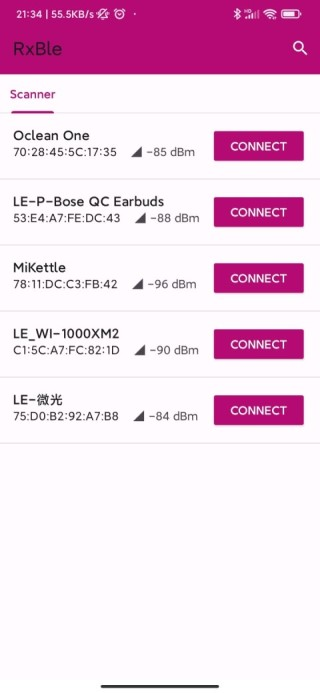
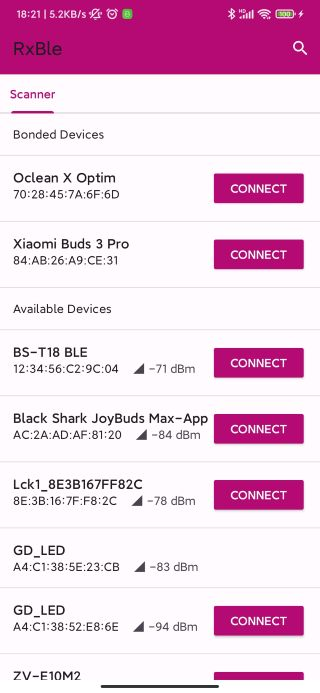
Add bounded device feature;

diff --git a/app/src/main/java/tt/rxble/adapter/ScanAdapter.kt b/app/src/main/java/tt/rxble/adapter/ScanAdapter.kt
@@ -16,19 +16,28 @@
 
 package tt.rxble.adapter
 
+import android.annotation.SuppressLint
+import android.bluetooth.BluetoothDevice
 import android.bluetooth.le.ScanResult
 import android.os.Build
+import android.view.LayoutInflater
 import android.view.View
+import android.view.ViewGroup
 import androidx.viewbinding.ViewBinding
+import tt.rxble.databinding.ItemListTitleBinding
 import tt.rxble.databinding.ItemScanBinding
 import tt.rxble.displayName
+import tt.rxble.R
 import tt.base.component.TTAdapter
 import tt.base.component.TTHolder
 import tt.base.component.TTOnClickListener
+import tt.base.utils.gone
+import tt.base.utils.visible
 
 class ScanAdapter(
-    private var clickListener: TTOnClickListener<ItemScanBinding, ScanResult>
+    private var clickListener: TTOnClickListener<ItemScanBinding, BluetoothDevice>
 ) : TTAdapter<ItemScanBinding, ScanResult>() {
+    var bondedDevices = mutableListOf<BluetoothDevice>()
 
     var keyword: String? = null
         set(value) {
@@ -45,27 +54,68 @@ class ScanAdapter(
         }
     var list: MutableList<ScanResult> = items
 
+    override fun getItemViewType(position: Int): Int {
+        if (bondedDevices.isNotEmpty() && (position == 0 || position == (bondedDevices.size + 1))) {
+            return TTHolder.viewType(ItemListTitleBinding::class.java)
+        }
+        return super.getItemViewType(position)
+    }
+
+    override fun onCreateViewHolder(parent: ViewGroup, viewType: Int): TTHolder<ViewBinding> {
+        if (viewType == TTHolder.viewType(ItemListTitleBinding::class.java)) {
+            return TTHolder(ItemListTitleBinding.inflate(LayoutInflater.from(ctx), parent, false))
+        }
+        return super.onCreateViewHolder(parent, viewType)
+    }
+
+    @SuppressLint("MissingPermission")
     override fun onBindViewHolder(holder: TTHolder<ViewBinding>, position: Int) {
+        val resources = holder.itemView.resources
         if (holder.vb is ItemScanBinding) {
             val vb = holder.vb as ItemScanBinding
-            val item = list[position]
-            item.device?.let {
-                vb.tvAddress.text = it.address
+            if (bondedDevices.isNotEmpty() && position < (bondedDevices.size + 2)) {
+                val item = bondedDevices[position - 1]
+                vb.tvAddress.text = item.address
+                var name = item.name
+                if (name.isNullOrBlank() && Build.VERSION.SDK_INT >= Build.VERSION_CODES.R) {
+                    name = item.alias
+                }
+                if (name.isNullOrBlank()) name = resources.getString(R.string.n_a)
+                vb.tvName.text = name
+                gone(vb.tvRssi)
+                setClickListener(
+                    clickListener, holder as TTHolder<ItemScanBinding>, item,
+                    holder.itemView, vb.connect
+                )
+            } else {
+                var pos = getRealPosition(position, true)
+                val item = list[pos]
+                item.device?.let {
+                    vb.tvAddress.text = it.address
+                }
+                vb.tvName.text = item.displayName ?: resources.getString(R.string.n_a)
+                vb.tvRssi.text = resources.getString(R.string.dbm, item.rssi)
+                visible(vb.tvRssi)
+                if (Build.VERSION.SDK_INT >= Build.VERSION_CODES.O) {
+                    vb.connect.visibility = if (item.isConnectable) View.VISIBLE else View.GONE
+                }
+                setClickListener(
+                    clickListener, holder as TTHolder<ItemScanBinding>, item.device,
+                    holder.itemView, vb.connect
+                )
             }
-            vb.tvName.text = item.displayName ?: "N/A"
-            vb.tvRssi.text = "${item.rssi} dBm"
-            if (Build.VERSION.SDK_INT >= Build.VERSION_CODES.O) {
-                vb.connect.visibility = if (item.isConnectable) View.VISIBLE else View.GONE
+        } else if (holder.vb is ItemListTitleBinding) {
+            val vb = holder.vb as ItemListTitleBinding
+            if (position == 0) {
+                vb.tvTitle.text = resources.getString(R.string.bonded_devices)
+            } else {
+                vb.tvTitle.text = resources.getString(R.string.available_devices)
             }
-            setClickListener(
-                clickListener, holder as TTHolder<ItemScanBinding>, item,
-                holder.itemView, vb.connect
-            )
         }
     }
 
     override fun put(t: ScanResult): Boolean {
-        val index = items.deviceIndexOf(t)
+        var index = items.deviceIndexOf(t)
         if (index >= 0) items[index] = t else items.add(t)
         if (keyword?.isNotEmpty() == true) {
             keyword?.let { key ->
@@ -74,7 +124,7 @@ class ScanAdapter(
                     val position = list.deviceIndexOf(t)
                     if (position >= 0) {
                         list[position] = t
-                        notifyItemChanged(position)
+                        notifyItemChanged(getRealPosition(position))
                     } else {
                         list.add(t)
                         notifyItemInserted(itemCount - 1)
@@ -82,13 +132,20 @@ class ScanAdapter(
                 }
             }
         } else {
-            if (index >= 0) notifyItemChanged(index) else notifyItemInserted(list.size - 1)
+            if (index >= 0) {
+                notifyItemChanged(getRealPosition(index))
+            } else notifyItemInserted(itemCount - 1)
         }
         return true
     }
 
-    override fun getItemCount(): Int {
-        return list.size
+    override fun getItemCount() = getRealPosition(list.size)
+
+    private fun getRealPosition(position: Int, reverse: Boolean = false): Int {
+        if (bondedDevices.isNotEmpty()) {
+            return if (reverse) position - bondedDevices.size - 2 else position + bondedDevices.size + 2
+        }
+        return position
     }
 
     private fun List<ScanResult>.deviceIndexOf(element: ScanResult): Int {
@@ -97,9 +154,10 @@ class ScanAdapter(
     }
 
     override fun clear() {
-        val itemCount = list.size
+        val count = itemCount
+        bondedDevices.clear()
         list.clear()
-        notifyItemRangeRemoved(0, itemCount)
         items.clear()
+        notifyItemRangeRemoved(0, count)
     }
 }

diff --git a/app/src/main/java/tt/rxble/ui/main/ScanFragment.kt b/app/src/main/java/tt/rxble/ui/main/ScanFragment.kt
@@ -52,7 +52,7 @@ import tt.base.utils.permissionGranted
 import java.util.concurrent.TimeUnit
 
 class ScanFragment : TTFragment<RefreshRecyclerBinding>(), SwipeRefreshLayout.OnRefreshListener,
-    TTOnClickListener<ItemScanBinding, ScanResult>, SearchView.OnQueryTextListener {
+    TTOnClickListener<ItemScanBinding, BluetoothDevice>, SearchView.OnQueryTextListener {
     private val adapter: ScanAdapter = ScanAdapter(this)
     private val deviceManager = DeviceManager.instance
     private val launcherPermissions = registerForActivityResult(RequestMultiplePermissions()) {}
@@ -92,6 +92,7 @@ class ScanFragment : TTFragment<RefreshRecyclerBinding>(), SwipeRefreshLayout.On
                 override fun onSubscribe(d: Disposable) {
                     super.onSubscribe(d)
                     adapter.clear()
+                    adapter.bondedDevices = deviceManager.bondedDevices.toMutableList()
                 }
 
                 override fun onNext(t: ScanResult) {
@@ -101,9 +102,9 @@ class ScanFragment : TTFragment<RefreshRecyclerBinding>(), SwipeRefreshLayout.On
         } else vb.refresh.isRefreshing = false
     }
 
-    override fun onClick(v: View, h: TTHolder<ItemScanBinding>, t: ScanResult?) {
+    override fun onClick(v: View, h: TTHolder<ItemScanBinding>, t: BluetoothDevice?) {
         if (v == h.vb.connect) {
-            t?.let { (ctx as OnTabChangeListener<BluetoothDevice>).onTabChange(it.device, true) }
+            t?.let { (ctx as OnTabChangeListener<BluetoothDevice>).onTabChange(it, true) }
         }
     }
 

diff --git a/rxble/src/main/java/tt/rxble/RxBle.kt b/rxble/src/main/java/tt/rxble/RxBle.kt
@@ -59,9 +59,11 @@ class RxBle(
                 is BluetoothGattCharacteristic -> write(
                     triple.first as BluetoothGattCharacteristic, value, triple.third
                 )
+
                 is BluetoothGattDescriptor -> write(
                     triple.first as BluetoothGattDescriptor, value
                 )
+
                 else -> Completable.complete()
             }
         }.materialize<Pair<Parcelable, ByteArray>>().map {
@@ -84,6 +86,24 @@ class RxBle(
         writeDisposable?.dispose()
         writeDisposable = null
     }
+
+    /**
+     * Get the current connection state of device.
+     *
+     * @return State of the device connection. One of {@link BluetoothProfile#STATE_CONNECTED},
+     * {@link BluetoothProfile#STATE_CONNECTING}, {@link BluetoothProfile#STATE_DISCONNECTED},
+     * {@link BluetoothProfile#STATE_DISCONNECTING}
+     */
+    val connectionState: Int
+        get() = source.connectionState
+
+    /**
+     * Return true if the device is connected.
+     *
+     * @return true if the device is connected.
+     */
+    val isConnected: Boolean
+        get() = connectionState == BluetoothProfile.STATE_CONNECTED
 
     /**
      * Indicates when GATT client has connected/disconnected to/from a remote

diff --git a/app/src/main/java/tt/rxble/data/DeviceManager.kt b/app/src/main/java/tt/rxble/data/DeviceManager.kt
@@ -30,18 +30,21 @@ class DeviceManager(var ctx: Context) {
     private val bleManager = RxBleManager(ctx)
     private var bleMap: MutableMap<String, RxBle> = HashMap()
 
+    val bondedDevices: Set<BluetoothDevice>
+        get() = bleManager.adapter.bondedDevices
+
     fun scan(filters: List<ScanFilter>?, settings: ScanSettings?) =
         bleManager.scan(filters, settings)
-
-    fun getConnectionState(device: BluetoothDevice) = bleManager.getConnectionState(device)
-
-    fun isConnected(device: BluetoothDevice) = bleManager.isConnected(device)
 
     fun obtain(address: String) = bleMap[address] ?: bleManager.create(
         address, false
     ).also {
         bleMap[address] = it
     }
+
+    fun getConnectionState(device: BluetoothDevice) = obtain(device.address).connectionState
+
+    fun isConnected(device: BluetoothDevice) = obtain(device.address).isConnected
 
     fun close(address: String) = bleMap.remove(address)?.close()
 

diff --git a/rxble/src/main/java/tt/rxble/RxBleOnSubscribe.kt b/rxble/src/main/java/tt/rxble/RxBleOnSubscribe.kt
@@ -36,6 +36,8 @@ internal class RxBleOnSubscribe(
             requireNotNull(realGatt) { "GATT client has not been established or has been closed" }
             return realGatt!!
         }
+    var connectionState: Int = BluetoothProfile.STATE_DISCONNECTED
+        private set
     var mtu: Int = 20
         private set
 
@@ -67,6 +69,7 @@ internal class RxBleOnSubscribe(
     }
 
     override fun onConnectionStateChange(gatt: BluetoothGatt, status: Int, newState: Int) {
+        this.connectionState = newState
         emitter?.onNext(RxGatt.ConnectionStateChange(gatt, status, newState))
     }
 

diff --git a/rxble/src/main/java/tt/rxble/RxTools.kt b/rxble/src/main/java/tt/rxble/RxTools.kt
@@ -14,6 +14,8 @@
  * limitations under the License.
  */
 
+@file:JvmName("RxTools")
+
 package tt.rxble
 
 import android.bluetooth.BluetoothGattCharacteristic

diff --git a/app/src/main/java/tt/rxble/Tools.kt b/app/src/main/java/tt/rxble/Tools.kt
@@ -14,6 +14,8 @@
  * limitations under the License.
  */
 
+@file:JvmName("Tools")
+
 package tt.rxble
 
 import android.bluetooth.le.ScanResult
